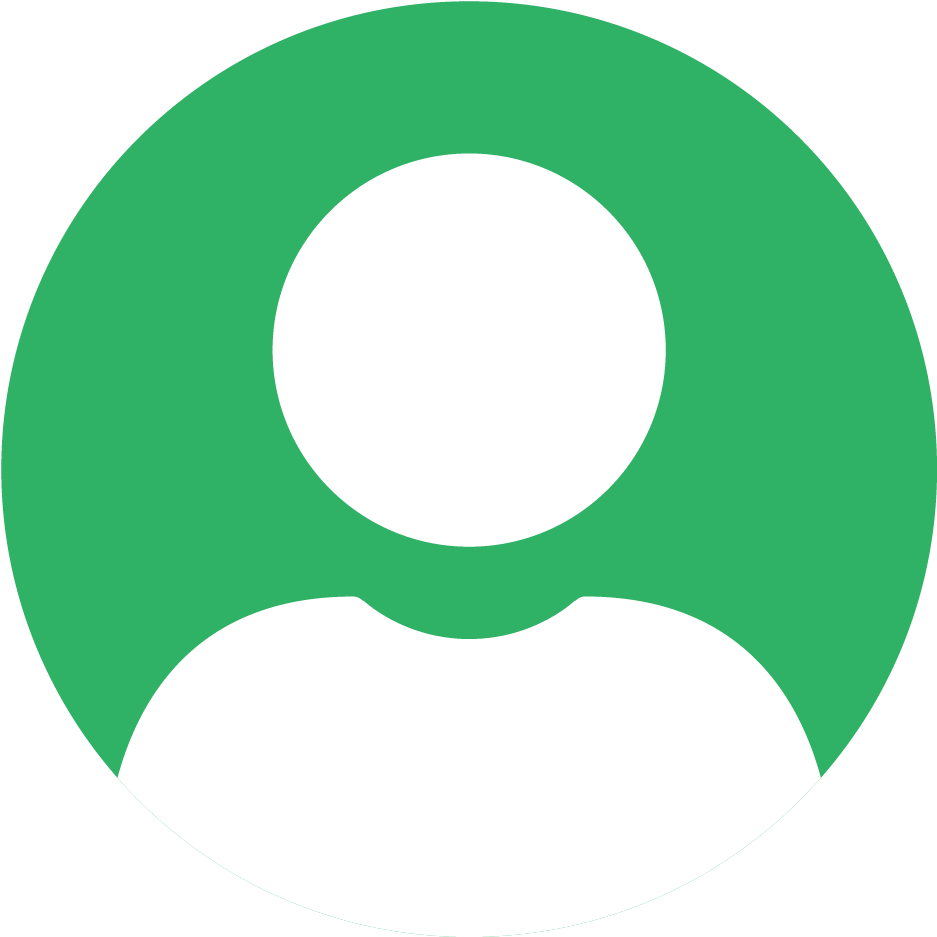
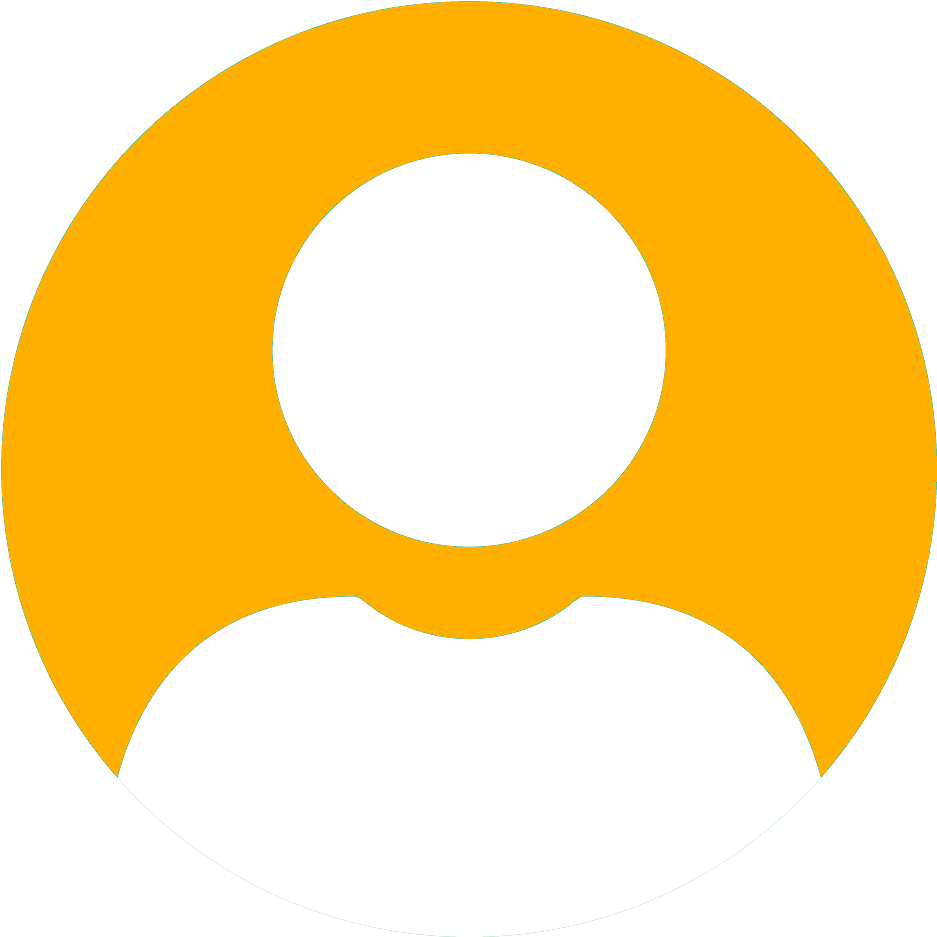
Changed color scheme.
Orange is now the main color. Red and pink are supporting colors. Green was a bad idea.

diff --git a/public/css/styles.css b/public/css/styles.css
@@ -1,24 +1,26 @@
 /* 
-COLOR SCHEME:
+COLOR SCHEME.
 
 Primary:
--Bright Green: #00FFA2
 -Orange: #FFAF00
-
-Background:
--Soft green: #e1fff4
+-Red: #FF7D7D
+-Pink: #FDA5FF
 
 Hover:
--Dark Green: #00cc81
--Bright Green: #00FFA2
+Darker orange: #EAA000
+Darker red: #E37272
+Darker pink: #F1A3F2
+
+Background:
+Subtle white: #FFFDFA
 
 Border or text:
 -Soft grey: #F3F3F3
 -Grey: #BABABA 
-*/
-
-/* Poppins font 
+-----------------------------------
+POPPINS FONT.
 font-family: 'Poppins', sans-serif;
+-----------------------------------
 */
 @import url("https://fonts.googleapis.com/css2?family=Poppins:ital,wght@0,400;0,700;1,400;1,700&display=swap");
 
